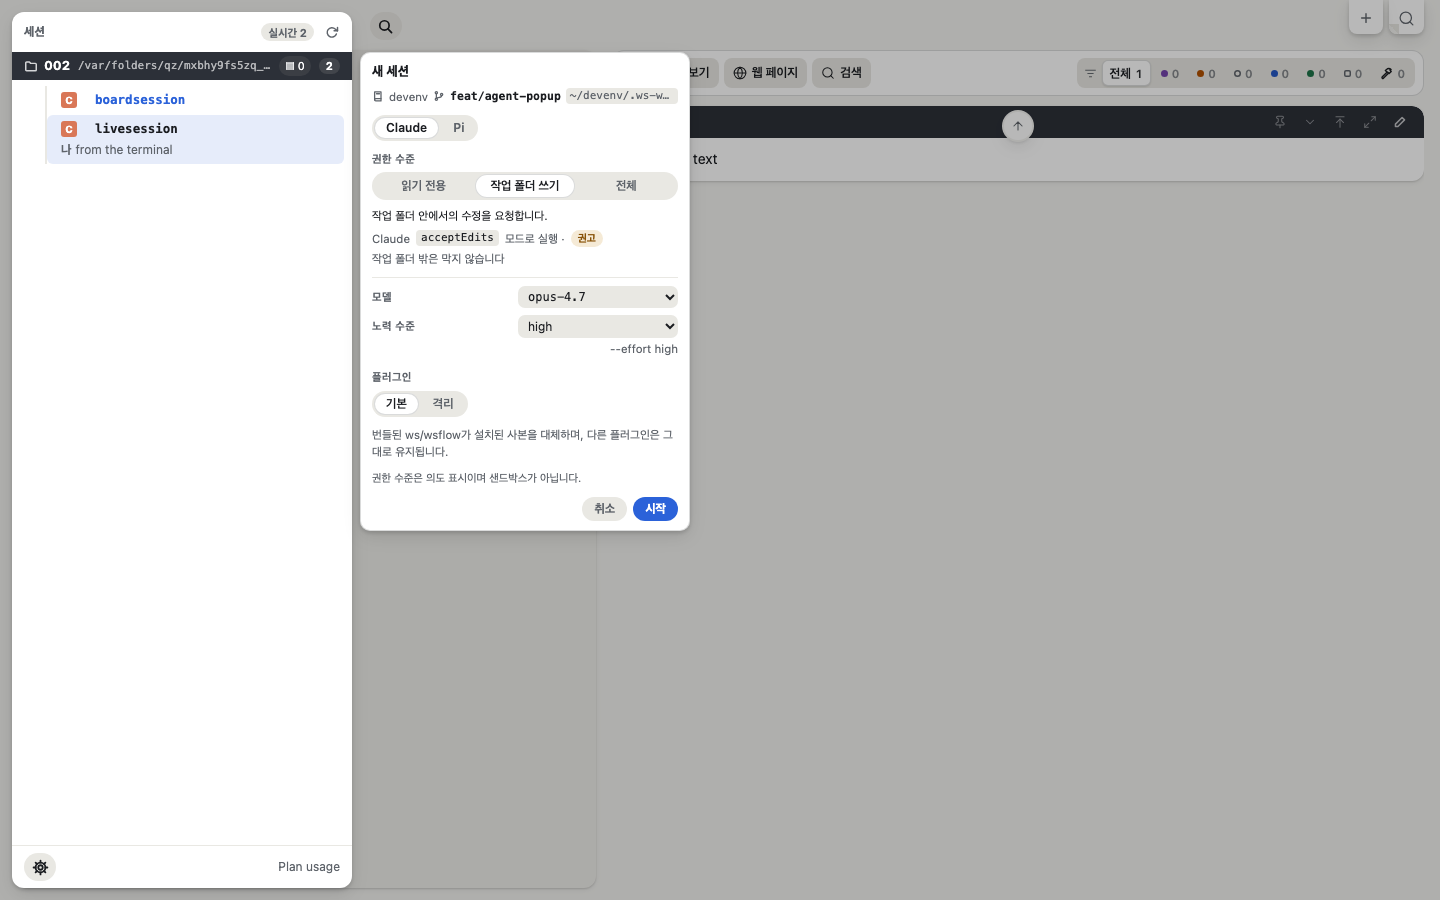
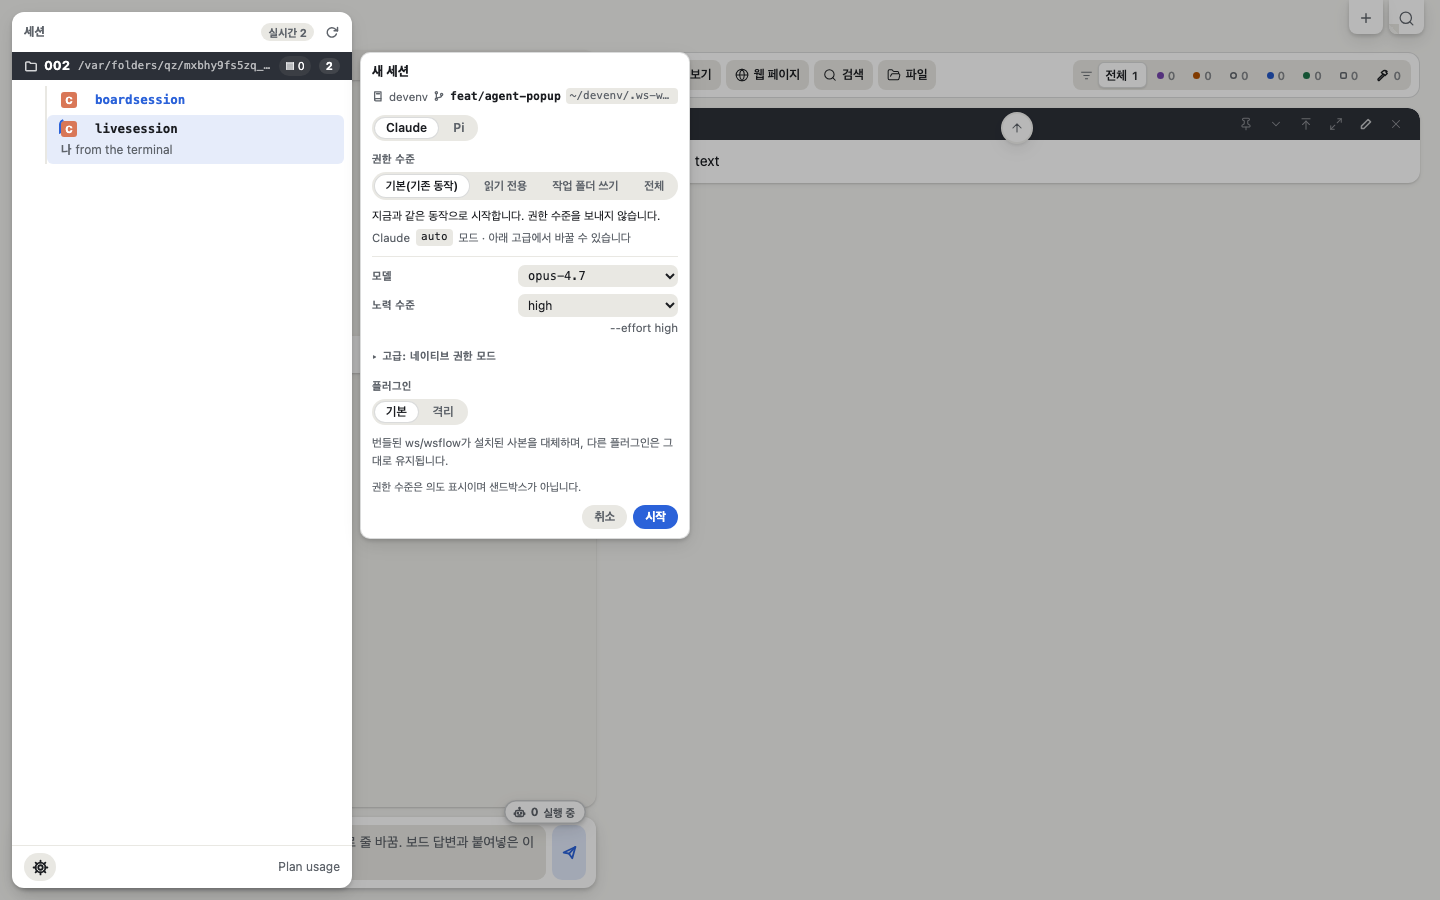
docs(tickets): revise permission UI mockups per lead decisions
Re-shoot create, settings, unsupported and full-warning (dark/light,
1440/420), and add create-pi (1440) and settings-picked (1440/420).

- create: fourth leading segment option 기본(기존 동작), preselected; sends
  no permission_level and keeps native auto. Native mode select moves
  behind a collapsed "고급: 네이티브 권한 모드" disclosure.
- create-pi: Pi selected, segment present, 권고 on all levels, no native row.
- settings (legacy-derived): no selected option; the derived level gets a
  dashed outline and an 추정 tag; disclosure open with an editable row.
- settings-picked: explicit level; the native row is disabled and shows
  the mapped mode.
- unsupported: new case B2, re-check still unsupported, so the user picks a
  native mode by hand, labelled as their own choice (no auto-fallback).
- full-warning: re-shot so the segment matches the 4-option create form.

## AI Context
- Implements the lead's decisions 1-10: 기본 default, editable native mode
  behind a disclosure, head chip kept, checkbox ack, dialog only for 전체,
  B2 manual legacy row, dashed 추정 highlight, Pi create shot, wording
  unchanged, nothing shown for workers.
- settings-picked was added beyond the asked list so the "disabled native
  row shows the mapped mode" decision is visible in at least one shot.
- Head chip text is now per-template (data-chip) so it matches each state.

diff --git a/ai-docs/tickets/assets/261115-feat-ws-permission-profile/perm-controls.fragment.html b/ai-docs/tickets/assets/261115-feat-ws-permission-profile/perm-controls.fragment.html
@@ -5,11 +5,23 @@
      the dashboard's own CSS, and only the pm* rules below are new. The
      renderer injects the <style> and one <template> per state into a served
      session shell page (Korean UI), in both colour schemes at 1440 and 420.
-     States: create, settings, full-warning, state, unsupported. -->
+     States: create, create-pi, settings, settings-picked, full-warning,
+     state, unsupported. -->
 <style id="pm-css">
-/* permission level: a three-way segment the width of the popover */
-.rpop .pmseg { width: 100%; box-sizing: border-box; display: grid; grid-template-columns: repeat(3, minmax(0, 1fr)); }
-.rpop .pmseg button { padding: 3px 4px; white-space: nowrap; }
+/* permission level: a segment the width of the popover; on creation it
+   leads with the default (today's behaviour, no level sent) */
+.rpop .pmseg { width: 100%; box-sizing: border-box; display: flex; flex-wrap: nowrap; }
+.rpop .pmseg button { flex: 1 1 auto; padding: 3px 6px; white-space: nowrap; font-size: 11.5px; }
+/* a legacy-derived level: dashed and tagged, not selected */
+.rpop .pmseg button.derived { outline: 1.5px dashed color-mix(in srgb, var(--wb-muted-fg) 70%, transparent); outline-offset: -2px; }
+.pmtag { margin-left: 4px; font-size: 9.5px; font-weight: 700; padding: 0 4px; border-radius: 4px; background: var(--wb-card); color: var(--wb-muted-fg); vertical-align: 1px; }
+/* the native mode, kept editable behind a disclosure */
+.rpop .pmadv { display: grid; gap: 3px; min-width: 0; }
+.rpop .pmadv > summary { display: flex; align-items: center; gap: 5px; cursor: pointer; list-style: none; font-size: 11px; font-weight: 700; text-transform: uppercase; letter-spacing: .04em; color: var(--wb-muted-fg); }
+.rpop .pmadv > summary::-webkit-details-marker { display: none; }
+.rpop .pmadv > summary::before { content: "▸"; font-size: 10px; transition: transform .12s; }
+.rpop .pmadv[open] > summary::before { transform: rotate(90deg); }
+.rpop .pmadv .pmown { font-size: 10.5px; font-weight: 700; padding: 0 6px; border-radius: 999px; background: var(--wb-muted); color: var(--wb-fg); text-transform: none; letter-spacing: 0; }
 .rpop .pmseg button.full[aria-checked="true"] { color: var(--wb-fail); box-shadow: inset 0 0 0 1px color-mix(in srgb, var(--wb-fail) 50%, transparent); }
 /* what the picked level asks for, then how this harness carries it */
 .rpop .pmwhat { margin: 2px 0 0; font-size: 11.5px; color: var(--wb-fg); }
@@ -53,9 +65,12 @@
 .pmgal .pmtitle { flex: 1 0 100%; font-size: 14px; font-weight: 800; text-align: center; }
 </style>
 
-<!-- 1. Lead creation: shown only when /support/choices names
-     permission_levels for the picked harness. The native mode row gives way
-     to the mode the level maps to; Start with "full" opens the warning. -->
+<!-- 1. Lead creation, shown only when /support/choices names
+     permission_levels for the picked harness. "기본(기존 동작)" leads and is
+     preselected: native auto on the legacy route, no permission_level sent.
+     The native mode stays editable behind a collapsed disclosure; picking a
+     level disables it and shows the mapped mode. Start with "full" opens the
+     warning. -->
 <template data-state="create">
 <div class="rpop pm-anchor-rail" role="dialog" aria-label="새 세션">
   <div class="sphd">새 세션</div>
@@ -63,33 +78,95 @@
   <div class="spsec"><div class="spseg" role="radiogroup" aria-label="하네스"><button type="button" role="radio" aria-checked="true">Claude</button><button type="button" role="radio" aria-checked="false">Pi</button></div></div>
   <div class="spsec">
     <div class="splbl">권한 수준</div>
-    <div class="spseg pmseg" role="radiogroup" aria-label="권한 수준"><button type="button" role="radio" aria-checked="false">읽기 전용</button><button type="button" role="radio" aria-checked="true">작업 폴더 쓰기</button><button type="button" role="radio" aria-checked="false" class="full">전체</button></div>
-    <p class="pmwhat">작업 폴더 안에서의 수정을 요청합니다.</p>
-    <p class="pmmap">Claude <code>acceptEdits</code> 모드로 실행 · <span class="pmq advisory">권고</span> 작업 폴더 밖은 막지 않습니다</p>
+    <div class="spseg pmseg" role="radiogroup" aria-label="권한 수준"><button type="button" role="radio" aria-checked="true">기본(기존 동작)</button><button type="button" role="radio" aria-checked="false">읽기 전용</button><button type="button" role="radio" aria-checked="false">작업 폴더 쓰기</button><button type="button" role="radio" aria-checked="false" class="full">전체</button></div>
+    <p class="pmwhat">지금과 같은 동작으로 시작합니다. 권한 수준을 보내지 않습니다.</p>
+    <p class="pmmap">Claude <code>auto</code> 모드 · 아래 고급에서 바꿀 수 있습니다</p>
   </div>
   <div class="spopts">
     <div class="sprc"><label>모델</label><select class="spsm mono"><option>opus-4.7</option></select></div>
     <div class="sprc"><label>노력 수준</label><select class="spsm"><option>high</option></select></div>
     <p class="spdesc">--effort high</p>
   </div>
+  <details class="pmadv"><summary>고급: 네이티브 권한 모드</summary>
+    <div class="sprc"><label>권한 모드</label><select class="spsm"><option>auto</option></select></div>
+    <p class="spdesc">분류기가 위험하다고 본 호출만 묻습니다.</p>
+  </details>
   <div class="spsec"><div class="splbl">플러그인</div><div class="spseg"><button type="button" aria-checked="true">기본</button><button type="button" aria-checked="false">격리</button></div><p class="spdesc">번들된 ws/wsflow가 설치된 사본을 대체하며, 다른 플러그인은 그대로 유지됩니다.</p></div>
   <p class="pmfine">권한 수준은 의도 표시이며 샌드박스가 아닙니다.</p>
   <div class="sprow"><span class="spnote"></span><button type="button" class="pbtn">취소</button><button type="button" class="pbtn go">시작</button></div>
 </div>
 </template>
 
-<!-- 2. Existing lead settings: the head chip's session menu, with the
-     state block on top and the level change under it. -->
+<!-- 1b. Lead creation with Pi: the same segment; Pi has no native permission
+     mode, so every level is advisory and there is no native disclosure. -->
+<template data-state="create-pi">
+<div class="rpop pm-anchor-rail" role="dialog" aria-label="새 세션">
+  <div class="sphd">새 세션</div>
+  <div class="sploc"><svg class="i" aria-hidden="true"><use href="#i-repo"/></svg><span>devenv</span><svg class="i" aria-hidden="true"><use href="#i-branch"/></svg><b>feat/agent-popup</b><code>~/devenv/.ws-worktrees/agent-popup</code></div>
+  <div class="spsec"><div class="spseg" role="radiogroup" aria-label="하네스"><button type="button" role="radio" aria-checked="false">Claude</button><button type="button" role="radio" aria-checked="true">Pi</button></div></div>
+  <div class="spsec">
+    <div class="splbl">권한 수준</div>
+    <div class="spseg pmseg" role="radiogroup" aria-label="권한 수준"><button type="button" role="radio" aria-checked="false">기본(기존 동작)</button><button type="button" role="radio" aria-checked="false">읽기 전용</button><button type="button" role="radio" aria-checked="true">작업 폴더 쓰기</button><button type="button" role="radio" aria-checked="false" class="full">전체</button></div>
+    <p class="pmwhat">작업 폴더 안에서의 수정을 요청합니다.</p>
+    <p class="pmmap">Pi에는 네이티브 권한 모드가 없습니다 · 세 수준 모두 <span class="pmq advisory">권고</span></p>
+  </div>
+  <div class="spopts">
+    <div class="sprc"><label>모델</label><select class="spsm mono"><option>gpt-5.5</option></select></div>
+    <div class="sprc"><label>노력 수준</label><select class="spsm"><option>medium</option></select></div>
+    <p class="spdesc">--thinking medium</p>
+  </div>
+  <div class="spsec"><div class="splbl">플러그인</div><div class="spseg"><button type="button" aria-checked="false">기본</button><button type="button" aria-checked="true">격리</button></div><p class="spdesc">번들된 ws/wsflow만 로드되며, 권한·훅·메모리·MCP 설정은 유지됩니다. 독립 실행형 Pi 바이너리는 격리만 지원합니다.</p></div>
+  <p class="pmfine">권한 수준은 의도 표시이며 샌드박스가 아닙니다.</p>
+  <div class="sprow"><span class="spnote"></span><button type="button" class="pbtn">취소</button><button type="button" class="pbtn go">시작</button></div>
+</div>
+</template>
+
+<!-- 2. Existing lead settings, legacy-derived: the head chip's session
+     menu. The derived level is dashed and tagged 추정; nothing is selected
+     until the user picks. The native mode stays editable in the disclosure. -->
 <template data-state="settings">
-<div class="rpop pm-anchor-head" role="dialog" aria-label="대시보드가 실행하는 세션">
+<div class="rpop pm-anchor-head" data-chip="작업 폴더 쓰기&lt;span class=&quot;pmtag&quot;&gt;추정&lt;/span&gt;&lt;span class=&quot;pmq advisory&quot;&gt;권고&lt;/span&gt;" role="dialog" aria-label="대시보드가 실행하는 세션">
   <div class="sphd">대시보드가 실행하는 세션</div>
   <div class="pmstate">
-    <span class="k">의도</span><span class="v"><b>작업 폴더 쓰기</b><span class="pmsrc">· 명시적 선택</span></span>
-    <span class="k">네이티브</span><span class="v">Claude <code>acceptEdits</code><span class="pmsrc">· 하네스가 보고함</span></span>
+    <span class="k">의도</span><span class="v"><b>작업 폴더 쓰기</b><span class="pmsrc">· 기존 설정에서 추정</span></span>
+    <span class="k">네이티브</span><span class="v">Claude <code>auto</code><span class="pmsrc">· 하네스가 보고함</span></span>
     <span class="k">근거</span><span class="v"><span class="pmq advisory">권고</span><span class="pmsrc">하네스가 이 경계를 강제한다는 근거가 없습니다</span></span>
   </div>
   <div class="spsec pmchg">
-    <div class="splbl">권한 수준 변경</div>
+    <div class="splbl">권한 수준</div>
+    <div class="spseg pmseg" role="radiogroup" aria-label="권한 수준"><button type="button" role="radio" aria-checked="false">읽기 전용</button><button type="button" role="radio" aria-checked="false" class="derived">작업 폴더 쓰기<span class="pmtag">추정</span></button><button type="button" role="radio" aria-checked="false" class="full">전체</button></div>
+    <p class="pmfine">아직 고른 수준이 없습니다. 고르면 명시적 선택이 됩니다. 낮추기는 저장되어 재시작해도 유지되고, 올리기는 사용자만 할 수 있습니다.</p>
+  </div>
+  <div class="spopts">
+    <div class="sprc"><label>모델</label><select class="spsm mono"><option>opus-4.7</option></select></div>
+    <div class="sprc"><label>노력 수준</label><select class="spsm"><option>high</option></select></div>
+    <p class="spdesc">--effort high</p>
+  </div>
+  <details class="pmadv" open><summary>고급: 네이티브 권한 모드</summary>
+    <div class="sprc"><label>권한 모드</label><select class="spsm"><option>auto</option></select></div>
+    <p class="spdesc">분류기가 위험하다고 본 호출만 묻습니다.</p>
+  </details>
+  <p class="spnote">변경은 다음 턴부터 적용됩니다.</p>
+  <div class="spacts">
+    <button type="button" class="spact"><svg class="i" aria-hidden="true"><use href="#i-stop"/></svg><span>중지<span class="gs">프로세스를 끝냅니다. 다음 메시지나 메일이 오면 다시 시작합니다.</span></span></button>
+    <button type="button" class="spact"><svg class="i" aria-hidden="true"><use href="#i-archive"/></svg><span>보관<span class="gs">레일에서 숨깁니다.</span></span></button>
+    <button type="button" class="spact danger"><svg class="i" aria-hidden="true"><use href="#i-power"/></svg><span>닫기<span class="gs">대화와 프로세스를 종료하고 메일 깨우기를 중지합니다.</span></span></button>
+  </div>
+</div>
+</template>
+
+<!-- 2b. The same menu after the user picked 읽기 전용: an explicit selection,
+     so the native row is disabled and shows the mapped mode. -->
+<template data-state="settings-picked">
+<div class="rpop pm-anchor-head" data-chip="읽기 전용&lt;span class=&quot;pmq pending&quot;&gt;관측 대기&lt;/span&gt;" role="dialog" aria-label="대시보드가 실행하는 세션">
+  <div class="sphd">대시보드가 실행하는 세션</div>
+  <div class="pmstate">
+    <span class="k">의도</span><span class="v"><b>읽기 전용</b><span class="pmsrc">· 명시적 선택</span></span>
+    <span class="k">네이티브</span><span class="v">Claude <code>plan</code><span class="pmsrc">· 다음 턴에 전환</span></span>
+    <span class="k">근거</span><span class="v"><span class="pmq pending">관측 대기</span><span class="pmsrc">하네스가 아직 모드를 보고하지 않았습니다</span></span>
+  </div>
+  <div class="spsec pmchg">
+    <div class="splbl">권한 수준</div>
     <div class="spseg pmseg" role="radiogroup" aria-label="권한 수준"><button type="button" role="radio" aria-checked="true">읽기 전용</button><button type="button" role="radio" aria-checked="false">작업 폴더 쓰기</button><button type="button" role="radio" aria-checked="false" class="full">전체</button></div>
     <p class="pmwhat">살펴보기만 하고 수정하지 않도록 요청합니다.</p>
     <p class="pmmap">Claude <code>plan</code> 모드로 전환 · <span class="pmq partial">부분</span> plan이 관측되면 편집이 막힙니다</p>
@@ -100,6 +177,10 @@
     <div class="sprc"><label>노력 수준</label><select class="spsm"><option>high</option></select></div>
     <p class="spdesc">--effort high</p>
   </div>
+  <details class="pmadv" open><summary>고급: 네이티브 권한 모드<span class="pmown">권한 수준이 결정</span></summary>
+    <div class="sprc"><label>권한 모드</label><select class="spsm" disabled><option>plan</option></select></div>
+    <p class="spdesc">권한 수준(읽기 전용)에서 정해집니다. 바꾸려면 위에서 수준을 고르세요.</p>
+  </details>
   <p class="spnote">변경은 다음 턴부터 적용됩니다.</p>
   <div class="spacts">
     <button type="button" class="spact"><svg class="i" aria-hidden="true"><use href="#i-stop"/></svg><span>중지<span class="gs">프로세스를 끝냅니다. 다음 메시지나 메일이 오면 다시 시작합니다.</span></span></button>
@@ -121,7 +202,7 @@
   <div class="spsec"><div class="spseg"><button type="button" aria-checked="true">Claude</button><button type="button" aria-checked="false">Pi</button></div></div>
   <div class="spsec">
     <div class="splbl">권한 수준</div>
-    <div class="spseg pmseg"><button type="button" aria-checked="false">읽기 전용</button><button type="button" aria-checked="false">작업 폴더 쓰기</button><button type="button" aria-checked="true" class="full">전체</button></div>
+    <div class="spseg pmseg" role="radiogroup" aria-label="권한 수준"><button type="button" role="radio" aria-checked="false">기본(기존 동작)</button><button type="button" role="radio" aria-checked="false">읽기 전용</button><button type="button" role="radio" aria-checked="false">작업 폴더 쓰기</button><button type="button" role="radio" aria-checked="true" class="full">전체</button></div>
     <p class="pmwhat">공통 제한을 모두 해제합니다. 시작 전에 확인합니다.</p>
     <p class="pmmap">Claude <code>bypassPermissions</code> 모드로 실행 · <span class="pmq advisory">권고</span></p>
   </div>
@@ -189,7 +270,8 @@
 <!-- 5. Unsupported and refused: no permission_levels in the current
      server's choices keeps the legacy native row and sends no selection; a
      refused selection shows the refusal, creates nothing, and is never
-     retried on a legacy URL. -->
+     retried on a legacy URL; if a re-check still finds none, the user may
+     pick a native mode by hand, labelled as their own choice. -->
 <template data-state="unsupported">
 <div class="pmgal">
   <div class="pmtitle">지원 없음 · 거부됨 (기존 경로로 대체하지 않음)</div>
@@ -210,9 +292,21 @@
     <div class="rpop">
       <div class="sphd">새 세션</div>
       <div class="spsec"><div class="spseg"><button type="button" aria-checked="true">Claude</button><button type="button" aria-checked="false">Pi</button></div></div>
-      <div class="spsec"><div class="splbl">권한 수준</div><div class="spseg pmseg"><button type="button" aria-checked="true">읽기 전용</button><button type="button" aria-checked="false">작업 폴더 쓰기</button><button type="button" aria-checked="false" class="full">전체</button></div></div>
+      <div class="spsec"><div class="splbl">권한 수준</div><div class="spseg pmseg" role="radiogroup" aria-label="권한 수준"><button type="button" role="radio" aria-checked="false">기본(기존 동작)</button><button type="button" role="radio" aria-checked="true">읽기 전용</button><button type="button" role="radio" aria-checked="false">작업 폴더 쓰기</button><button type="button" role="radio" aria-checked="false" class="full">전체</button></div></div>
       <p class="pmerr"><b>권한 선택이 거부되었습니다 (404)</b><span>지금 연결된 데몬이 이 요청을 지원하지 않습니다. 세션을 만들지 않았고, 권한 없이 다시 보내지 않았습니다.</span></p>
       <div class="sprow"><span class="spnote"></span><button type="button" class="pbtn">취소</button><button type="button" class="pbtn go">지원 다시 확인</button></div>
+    </div></div>
+  <div class="pmcard"><div class="pmcap">B2. 다시 확인해도 지원 없음<span>사용자가 직접 네이티브 모드를 고름 · 자동 대체 아님</span></div>
+    <div class="rpop">
+      <div class="sphd">새 세션</div>
+      <div class="spsec"><div class="spseg"><button type="button" aria-checked="true">Claude</button><button type="button" aria-checked="false">Pi</button></div></div>
+      <div class="spsec"><div class="splbl">권한 수준</div><p class="pmoff">다시 확인했지만 이 데몬은 권한 수준을 지원하지 않습니다. 고른 읽기 전용은 보내지 않습니다.</p></div>
+      <div class="spopts">
+        <div class="sprc"><label>권한 모드</label><select class="spsm"><option>plan</option></select></div>
+        <p class="spdesc">읽기와 계획만 합니다. 직접 고른 네이티브 모드입니다.</p>
+        <div class="sprc"><label>노력 수준</label><select class="spsm"><option>high</option></select></div>
+      </div>
+      <div class="sprow"><span class="spnote"></span><button type="button" class="pbtn">취소</button><button type="button" class="pbtn go">이 네이티브 모드로 시작</button></div>
     </div></div>
   <div class="pmcard"><div class="pmcap">C. 세션 메뉴, 지원 없음<span>현재 상태는 보이되 변경 컨트롤은 숨김</span></div>
     <div class="rpop">
